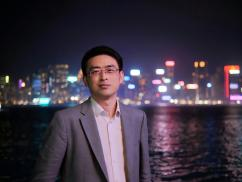
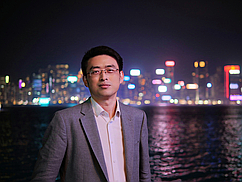
initial commit

diff --git a/img/new.py b/img/new.py
@@ -1,0 +1,34 @@
+from PIL import Image, ImageFilter
+import math
+
+def high_quality_resize(input_path, output_path, scale=0.05):
+    # 打开图片并转换色彩模式
+    img = Image.open(input_path).convert('RGB')
+    
+    # 分阶段缩小（可选）
+    intermediate_scale = math.sqrt(scale)  # 分两次缩小
+    temp_size = (
+        math.floor(img.width * intermediate_scale),
+        math.floor(img.height * intermediate_scale))
+    img = img.resize(temp_size, Image.LANCZOS)
+    
+    # 最终尺寸
+    final_size = (
+        math.floor(img.width * intermediate_scale),
+        math.floor(img.height * intermediate_scale))
+    
+    # 应用锐化滤镜
+    img = img.resize(final_size, Image.LANCZOS)
+    img = img.filter(ImageFilter.SHARPEN)
+    
+    # 高级保存参数
+    img.save(
+        output_path,
+        quality=100,
+        subsampling=0,
+        dpi=(300, 300),  # 保持高DPI
+        optimize=True
+    )
+
+# 使用示例
+high_quality_resize("pic2.jpg", "pic2-1.jpg", 0.05)
